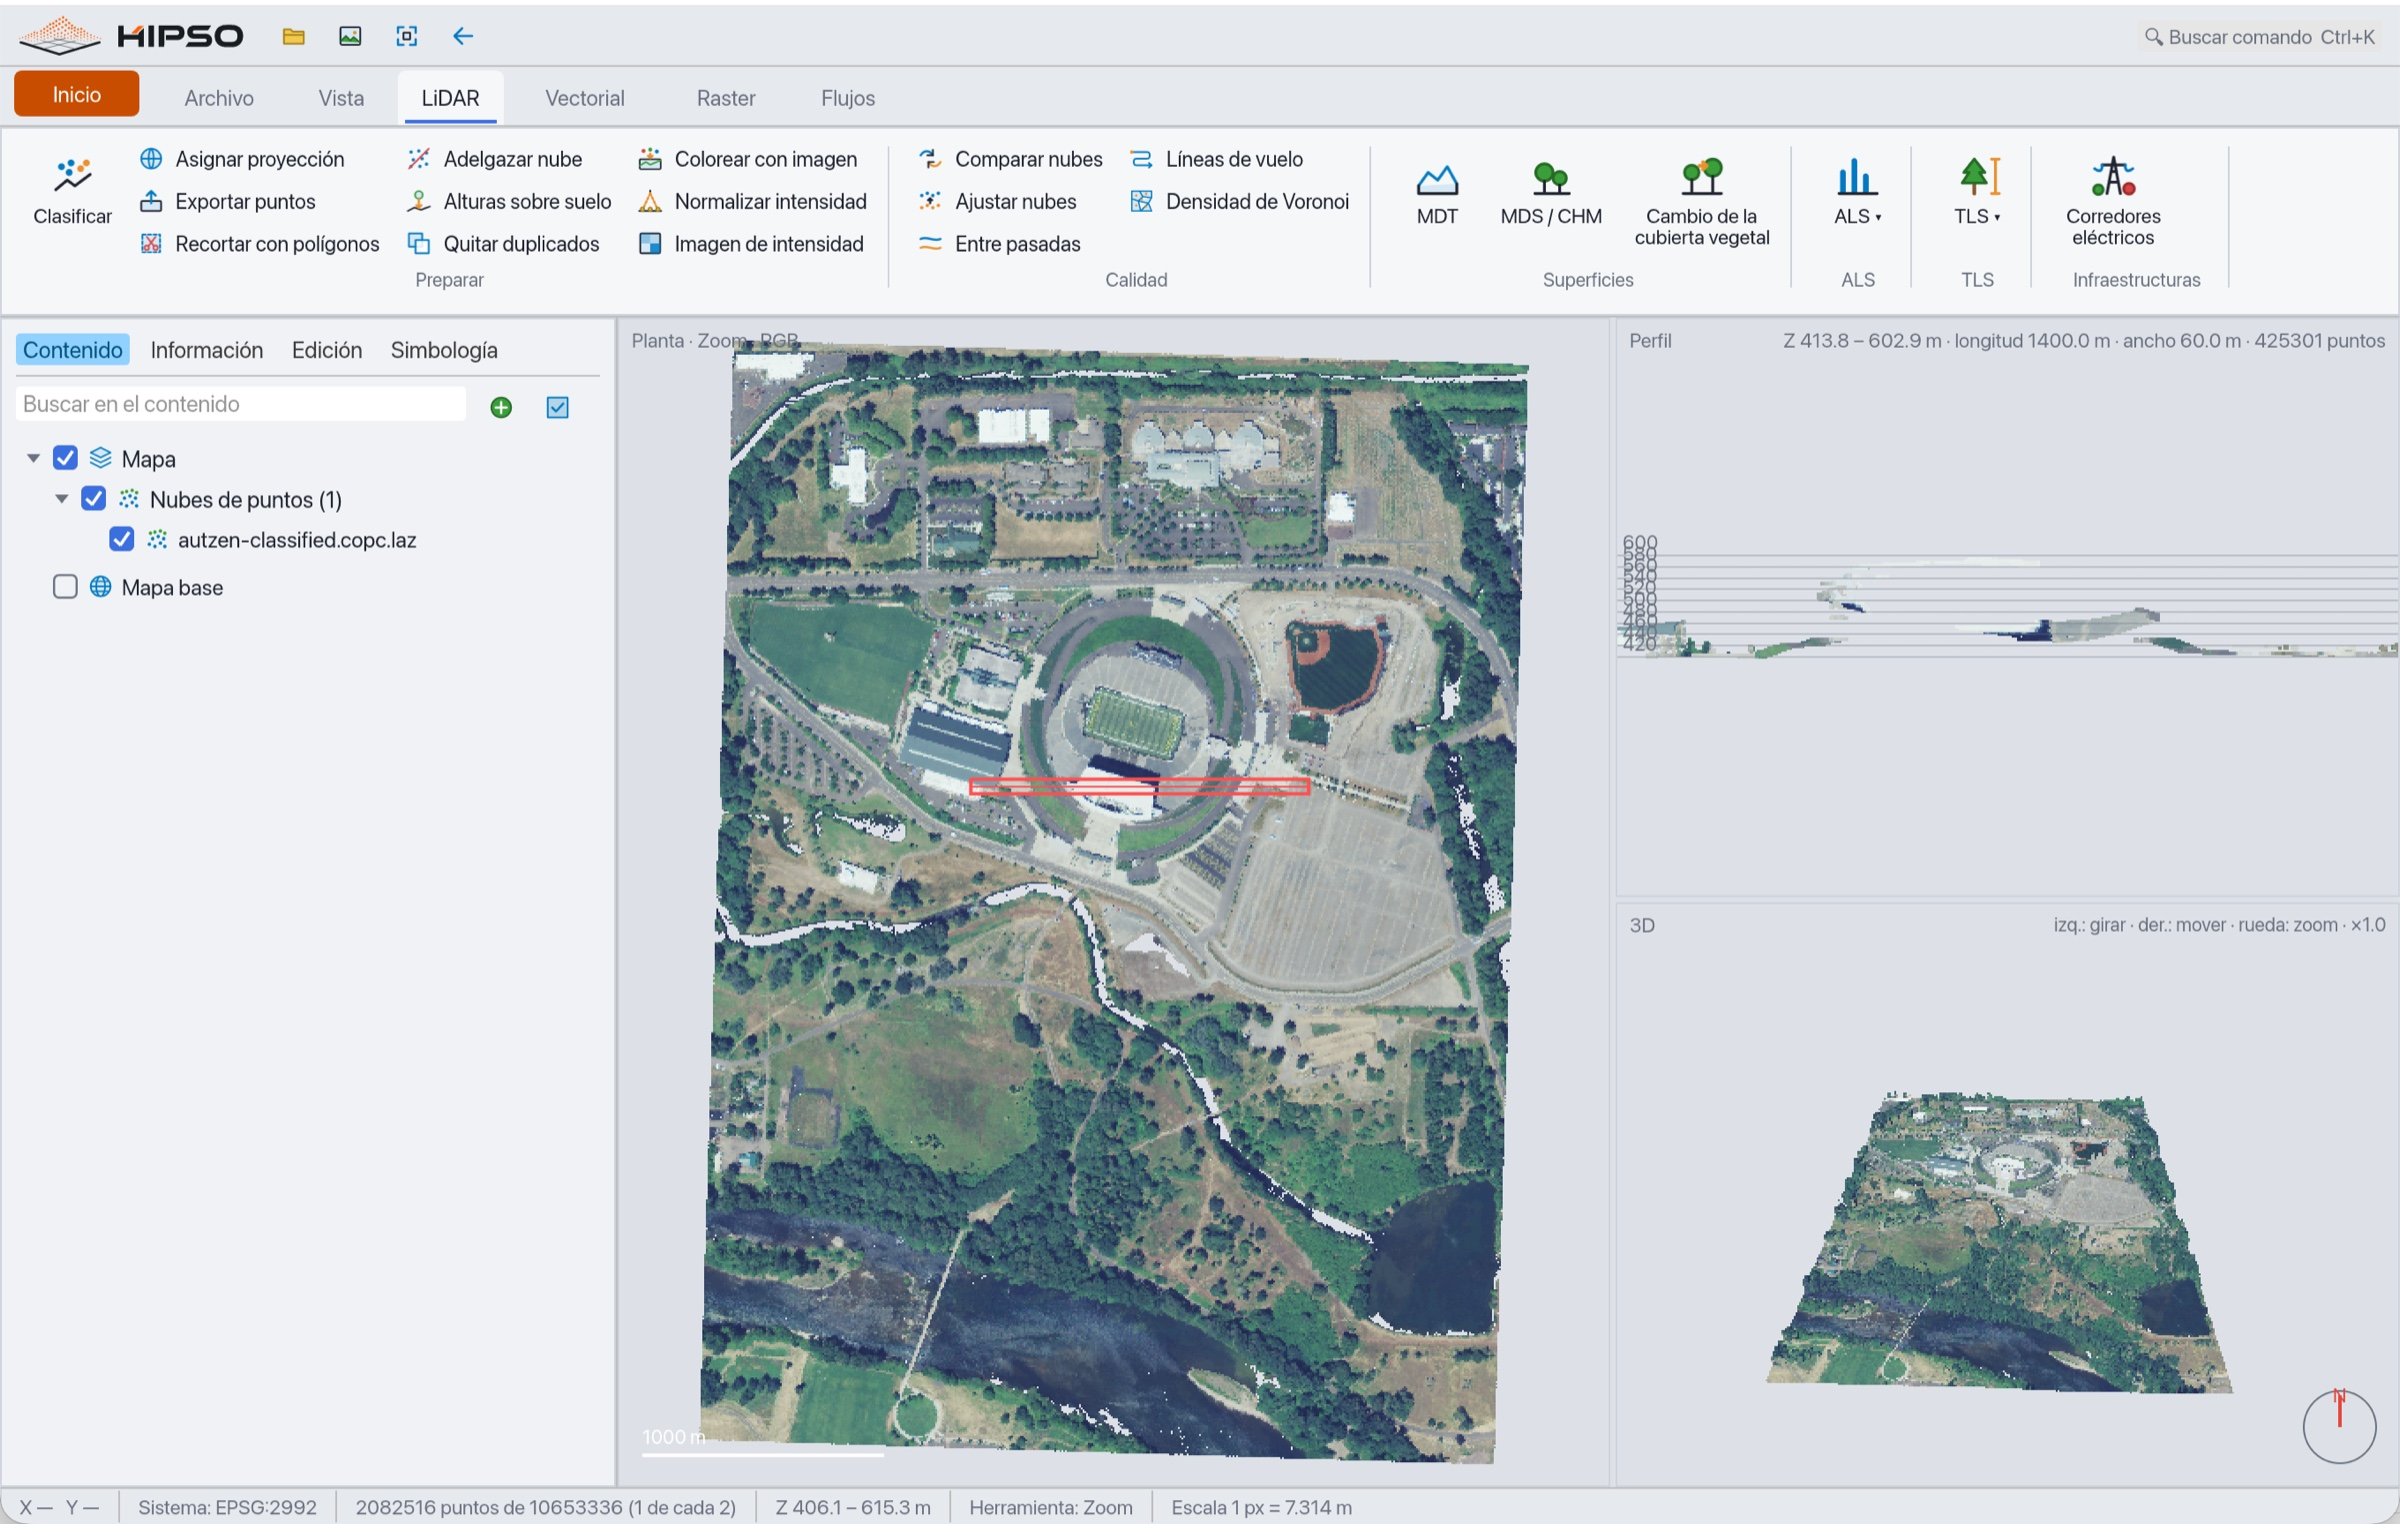
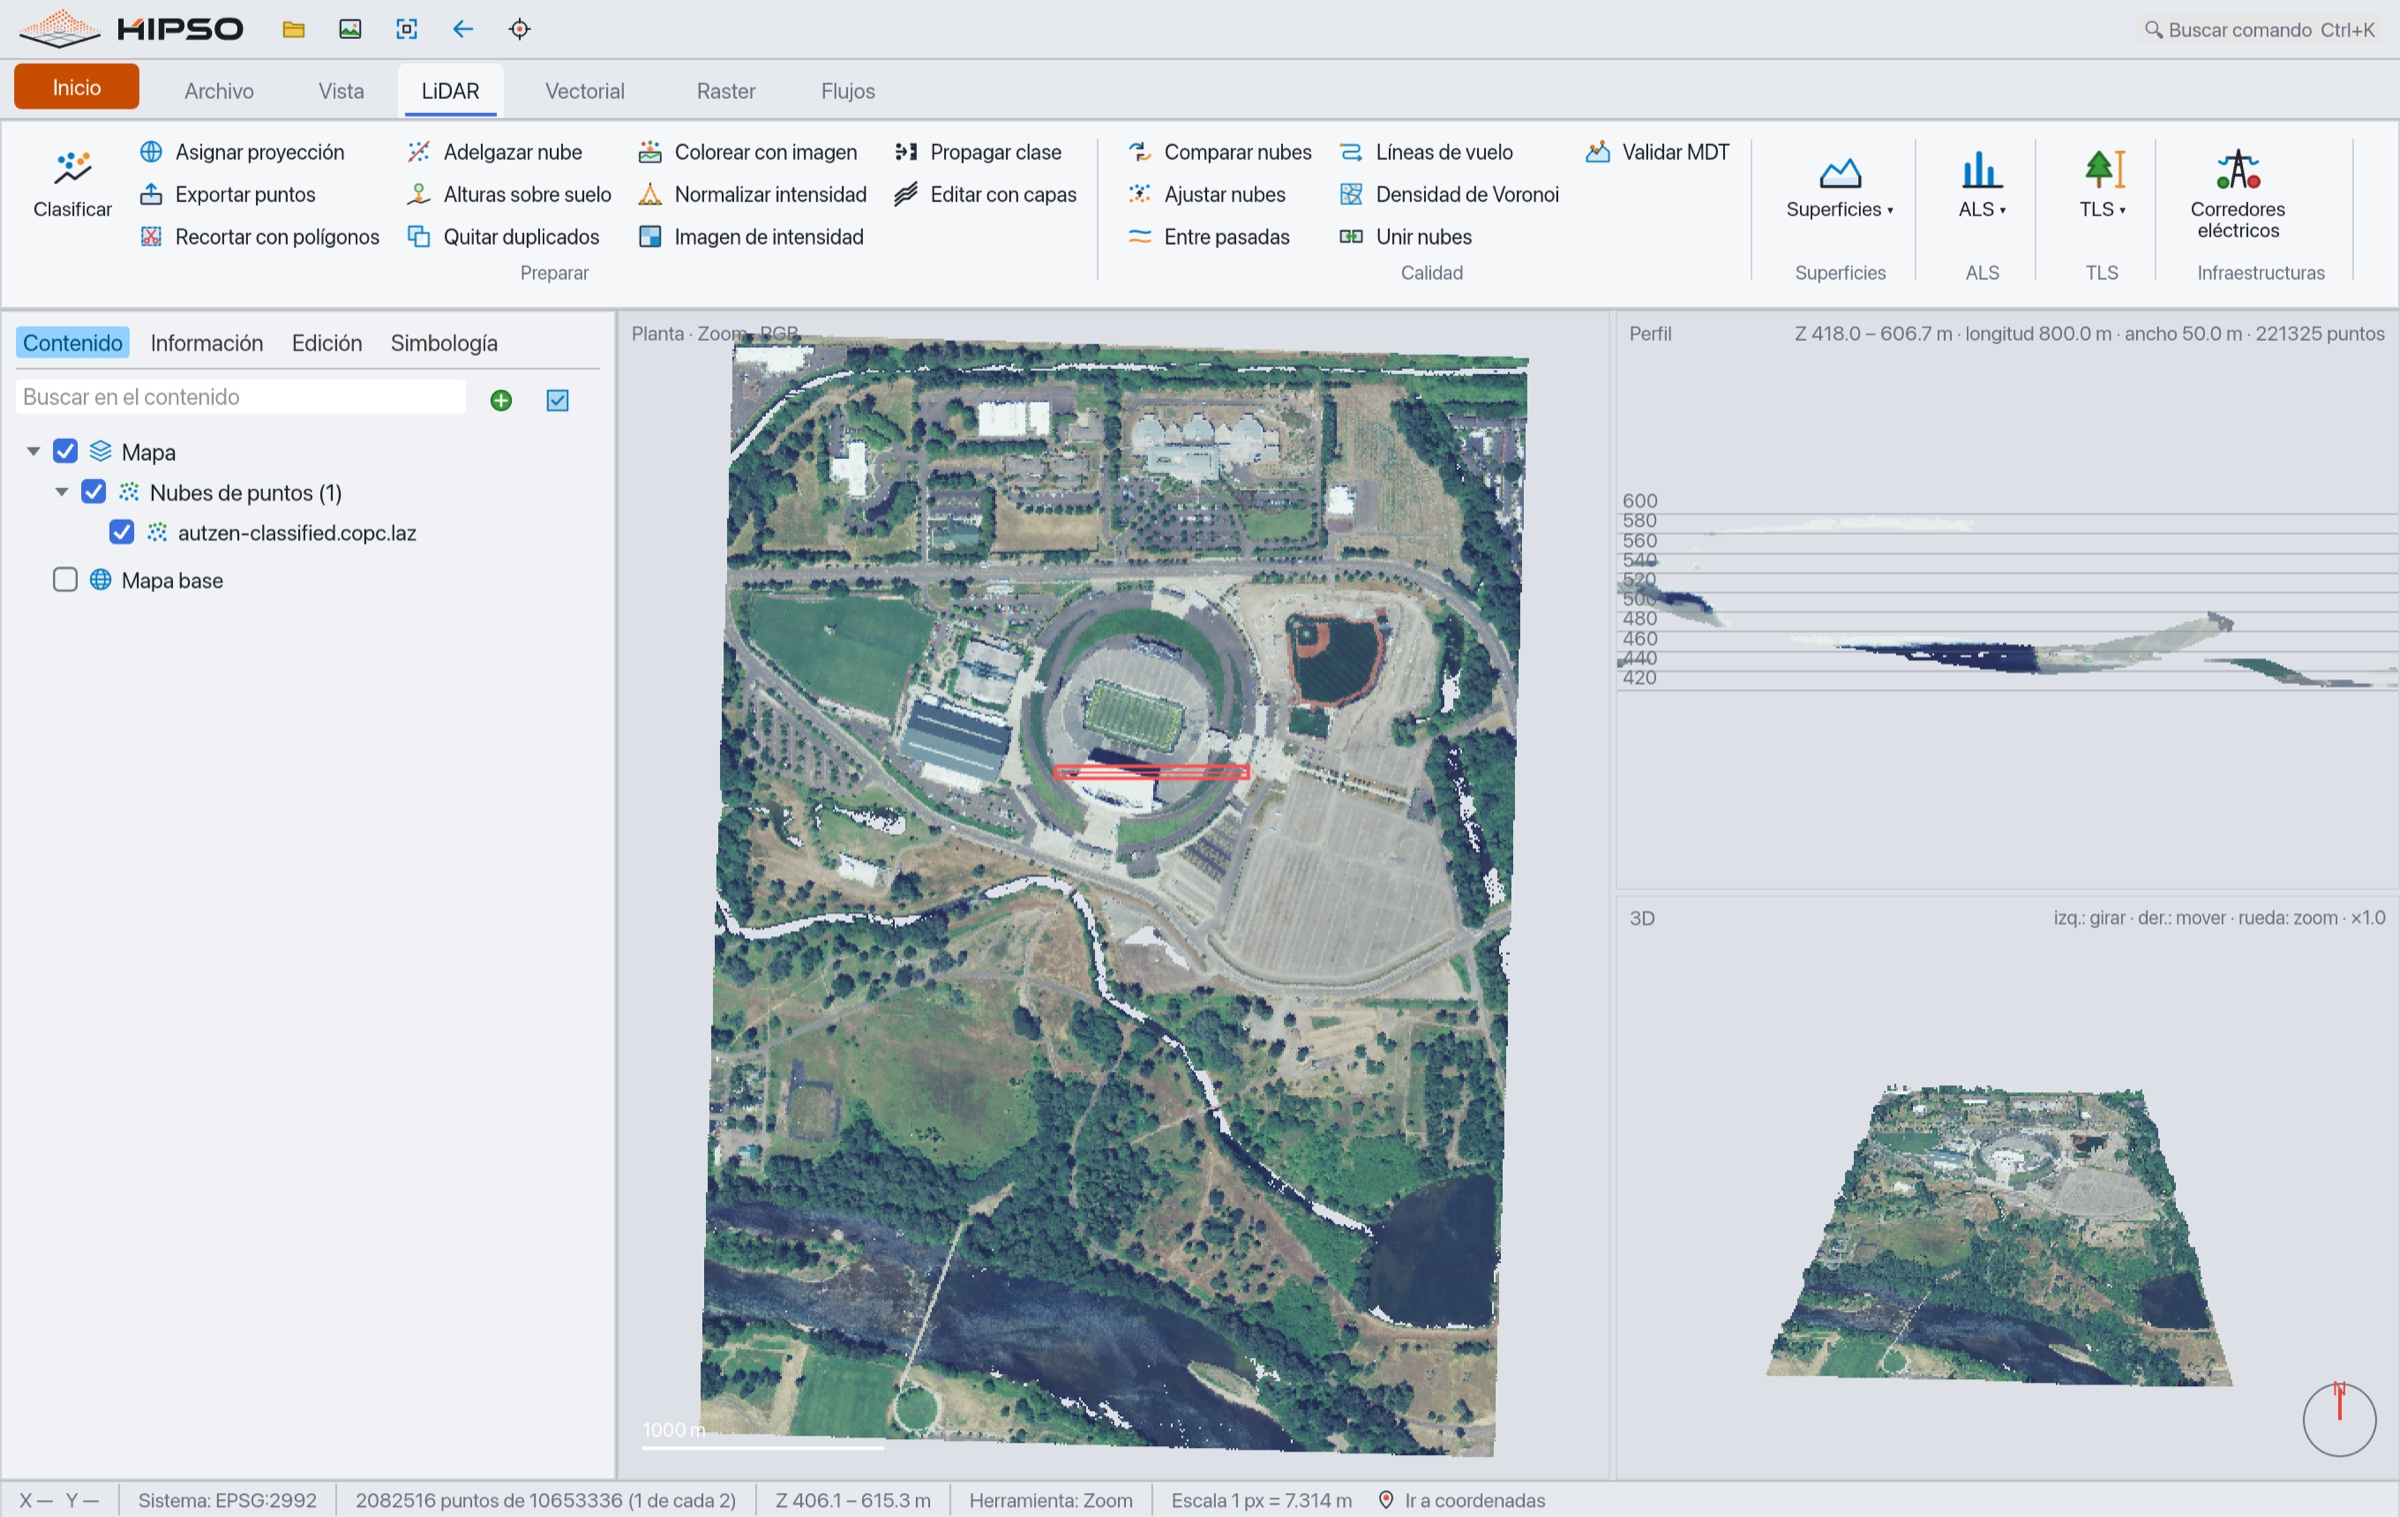
Capturas del README y de la web renovadas con la interfaz actual (perfil con MDS y MDT, línea eléctrica con apeos en 3D, TLS, flujos, modelos lineales) y una del asistente de IA; README con las novedades del asistente y del servidor MCP; el perfil no pisa su título en paneles estrechos; interruptore

diff --git a/apps/gui/src/main.rs b/apps/gui/src/main.rs
@@ -141,6 +141,9 @@ fn compass_centre(rect: Rect) -> Pos2 {
 
 /// Con `--expand`, todas las secciones plegables de las ventanas arrancan abiertas (para capturas y
 /// para contrastar las ventanas con el manual).
+/// Modo y rampa con que se abren los ráster al arrancar (`--raster-style relieve,1`); solo para las capturas.
+pub static RASTER_STYLE: std::sync::Mutex<Option<(rs::GridMode, usize)>> = std::sync::Mutex::new(None);
+
 pub static EXPAND_ALL: std::sync::atomic::AtomicBool = std::sync::atomic::AtomicBool::new(false);
 
 /// Una sección plegable, abierta desde el principio si se pidió `--expand`.
@@ -558,6 +561,7 @@ struct App {
     ai: ai::Assistant,
     /// Cuántas de las capas se dibujan bajo las nubes de puntos (las primeras de `refs`).
     cloud_slot: usize,
+    rasters_over: bool,
     show_points: bool,
     tin_on: bool,
     tin_classes: ClassSet,
@@ -743,6 +747,7 @@ impl Default for App {
             refs: Vec::new(),
             ai: ai::Assistant::new(),
             cloud_slot: 0,
+            rasters_over: false,
             show_points: true,
             tin_on: false,
             tin_classes: ClassSet::from_bits(1 << 2),
@@ -1065,6 +1070,8 @@ impl App {
                     }
                 }
                 "--hide-points" => self.show_points = false,
+                // la vista 3D sigue a la planta (la casilla «Enlazar con la planta»)
+                "--follow-plan" => self.follow_plan = true,
                 "--exag" => {
                     if let Some(v) = it.next().and_then(|v| v.parse().ok()) {
                         self.orbit.exaggeration = v;
@@ -1273,6 +1280,22 @@ impl App {
                 }
                 "--side-info" => self.side = Side::Info,
                 "--side-edit" => self.side = Side::Edit,
+                "--side-sym" => self.side = Side::Symbology,
+                // los ráster se dibujan sobre las nubes de puntos en la planta
+                "--rasters-over" => self.rasters_over = true,
+                "--raster-style" => {
+                    let v = it.next().unwrap_or_default();
+                    let mut p = v.split(',');
+                    let mode = match p.next() {
+                        Some("relieve") => rs::GridMode::Hillshade,
+                        Some("clasificar") => rs::GridMode::Classified,
+                        _ => rs::GridMode::Stretch,
+                    };
+                    let ramp = p.next().and_then(|r| r.parse().ok()).unwrap_or(5);
+                    if let Ok(mut g) = RASTER_STYLE.lock() {
+                        *g = Some((mode, ramp));
+                    }
+                }
                 _ => files.push(PathBuf::from(a)),
             }
         }
@@ -1951,7 +1974,13 @@ impl App {
         } else {
             g
         };
-        let style = rs::GridStyle::new(&shown);
+        let mut style = rs::GridStyle::new(&shown);
+        if let Ok(g) = RASTER_STYLE.lock()
+            && let Some((mode, ramp)) = *g
+        {
+            style.mode = mode;
+            style.ramp = ramp;
+        }
         let tex = to_texture(
             ctx,
             &format!("ref-{}", path.display()),
@@ -4335,6 +4364,9 @@ ui.menu_button("⚙", |ui| {
         let uv = Rect::from_min_max(Pos2::ZERO, Pos2::new(1.0, 1.0));
         self.update_images(ctx, w, h);
         // las capas bajo las nubes de puntos, luego las nubes y luego las capas encima
+        if self.rasters_over && self.loading.is_none() && !self.refs.is_empty() {
+            self.cloud_slot = 0;
+        }
         let slot = self.cloud_slot.min(self.refs.len());
         // el mapa base va bajo todo
         let project = if self.basemap.as_ref().is_some_and(|b| b.on) {
@@ -4860,28 +4892,36 @@ ui.menu_button("⚙", |ui| {
                     Rect::from_min_max(Pos2::ZERO, Pos2::new(1.0, 1.0)),
                     Color32::WHITE,
                 );
-                painter.text(
-                    rect.right_top() + Vec2::new(-8.0, 6.0),
-                    Align2::RIGHT_TOP,
-                    format!(
-                        "Z {lo:.1} – {hi:.1} m · longitud {:.1} m · ancho {:.1} m · {} puntos{}{} · Mayús+clic: corte perpendicular (Mayús+clic derecho: volver)",
-                        bx.length(),
-                        bx.width,
-                        store.len(),
-                        if store.stride > 1 {
-                            format!(" (1 de cada {})", store.stride)
-                        } else {
-                            String::new()
-                        },
-                        if self.profile_loading() {
-                            " · leyendo todos…"
-                        } else {
-                            ""
-                        }
-                    ),
-                    FontId::proportional(11.5),
-                    t.weak,
+                let datos = format!(
+                    "Z {lo:.1} – {hi:.1} m · longitud {:.1} m · ancho {:.1} m · {} puntos{}{}",
+                    bx.length(),
+                    bx.width,
+                    store.len(),
+                    if store.stride > 1 {
+                        format!(" (1 de cada {})", store.stride)
+                    } else {
+                        String::new()
+                    },
+                    if self.profile_loading() {
+                        " · leyendo todos…"
+                    } else {
+                        ""
+                    }
                 );
+                // la ayuda del corte perpendicular solo se añade si cabe sin pisar el título «Perfil»
+                let font = FontId::proportional(11.5);
+                let completo = format!("{datos} · Mayús+clic: corte perpendicular (Mayús+clic derecho: volver)");
+                let ancho = |texto: &str| {
+                    painter
+                        .layout_no_wrap(texto.to_owned(), font.clone(), t.weak)
+                        .size()
+                        .x
+                };
+                let hueco = rect.width() - 70.0;
+                let texto = if ancho(&completo) <= hueco { completo } else { datos };
+                if ancho(&texto) <= hueco {
+                    painter.text(rect.right_top() + Vec2::new(-8.0, 6.0), Align2::RIGHT_TOP, texto, font, t.weak);
+                }
             }
             if let Some((_, _, lo, hi)) = &self.tex_prof {
                 // la misma transformación que `render_profile`, de píxeles de la imagen al

diff --git a/scripts/capturas.py b/scripts/capturas.py
@@ -1,0 +1,46 @@
+#!/usr/bin/env python3
+"""Captura una escena de HIPSO con `--window-png` (la ventana entera, sin barra de título ni nada más
+de la pantalla), espera a que el archivo exista, cierra el programa y deja la imagen a 2400 px de ancho.
+
+Uso: python3 scripts/capturas.py <salida.png> [--espera SEG] -- <argumentos de hipso-gui>
+Necesita que la pantalla esté despierta (caffeinate -d -i).
+"""
+import os
+import subprocess
+import sys
+import time
+
+RAIZ = os.path.dirname(os.path.dirname(os.path.abspath(__file__)))
+GUI = os.path.join(RAIZ, "target/release/hipso-gui")
+
+
+def capturar(salida, args, espera=8, limite=900, ancho=2400):
+    crudo = salida + ".crudo.png"
+    if os.path.exists(crudo):
+        os.remove(crudo)
+    p = subprocess.Popen([GUI, *args, "--window-png", crudo, "--shot-wait", str(espera)],
+                         stdout=subprocess.DEVNULL, stderr=subprocess.DEVNULL)
+    t0 = time.time()
+    while time.time() - t0 < limite and not os.path.exists(crudo):
+        if p.poll() is not None:
+            break
+        time.sleep(0.5)
+    time.sleep(1.5)
+    p.kill()
+    p.wait()
+    if not os.path.exists(crudo):
+        raise SystemExit(f"no se capturó: {salida}")
+    subprocess.run(["sips", "--resampleWidth", str(ancho), crudo, "--out", salida], check=True, stdout=subprocess.DEVNULL)
+    os.remove(crudo)
+    return salida
+
+
+if __name__ == "__main__":
+    a = sys.argv[1:]
+    esp = 8
+    if "--espera" in a:
+        i = a.index("--espera")
+        esp = float(a[i + 1])
+        del a[i:i + 2]
+    i = a.index("--")
+    print(capturar(a[0], a[i + 1:], esp))

diff --git a/site/build.py b/site/build.py
@@ -115,6 +115,7 @@ IMAGENES = {
     "raster": ("05-terreno-opengf.jpg", "Un modelo del terreno coloreado por elevación, con su vista 3D."),
     "aba": ("11-modelos-lineales.jpg", "Modelo lineal de una variable de inventario con sus residuos."),
     "flujos": ("09-constructor-de-flujos.jpg", "El constructor de flujos con un inventario por área dibujado como grafo de nodos."),
+    "asistente": ("12-asistente-ia.jpg", "El panel del asistente de IA junto a una nube clasificada: explica las herramientas y crea flujos."),
     "tls": ("07-tls-troncos-y-ramas.jpg", "Troncos y ramas clasificados en una nube de escáner terrestre."),
 }
 

diff --git a/README.md b/README.md
@@ -11,7 +11,7 @@
 </p>
 
 <p align="center">
-  <a href="https://github.com/juliomsevilla/HIPSO/releases/latest"><img alt="Descargar" src="https://img.shields.io/badge/descargar-v0.8.1-ff8a1f?style=for-the-badge"></a>
+  <a href="https://github.com/juliomsevilla/HIPSO/releases/latest"><img alt="Descargar" src="https://img.shields.io/badge/descargar-v0.8.5-ff8a1f?style=for-the-badge"></a>
   <img alt="Plataformas" src="https://img.shields.io/badge/Windows%20%C2%B7%20macOS%20%C2%B7%20Linux-555?style=for-the-badge">
   <img alt="Gratuito" src="https://img.shields.io/badge/uso-gratuito-2e7d32?style=for-the-badge">
 </p>
@@ -27,6 +27,18 @@ En la página de **[Releases](https://github.com/juliomsevilla/HIPSO/releases/la
 - **Windows:** si aparece el aviso azul de SmartScreen, se elige *Más información → Ejecutar de todas formas*.
 - **macOS:** `HIPSO.app` se abre sin ventana de Terminal. El programa no está firmado por un desarrollador que Apple conozca, de modo que la primera vez macOS lo bloquea: se abre una vez, se va a *Ajustes del Sistema → Privacidad y seguridad* y se pulsa *Abrir igualmente*. Si el paquete se descarga con el navegador, macOS marca también `hipso` y `hipso-gui` y los cierra al ejecutarlos desde la consola; se desbloquean con `xattr -dr com.apple.quarantine HIPSO-macos-arm64` (o `-x64`) sobre la carpeta descomprimida, y si aun así no arrancan, con `chmod +x hipso-gui hipso`.
 - **Linux:** si el archivo perdió el permiso, se recupera con `chmod +x hipso-gui hipso`. Hacen falta GTK 3 para los diálogos de archivo y OpenGL 2 o superior (Mesa sirve).
+
+---
+
+## Novedades
+
+- **Asistente de IA** (*Archivo → Asistente*): un panel de conversación que conoce HIPSO. Explica cada herramienta consultando el manual y la referencia, describe y explora los datos abiertos (nubes, rásteres, capas y tablas), recomienda cómo hacer un trabajo y **crea flujos** validados contra las herramientas reales, que se abren en la pestaña *Flujos* para ejecutarlos. Funciona con DeepSeek, OpenRouter, Claude, ChatGPT o cualquier servicio compatible con OpenAI, con tu propia clave: HIPSO no pone intermediarios ni cobra. Trae ocho perfiles (GIS Analyst, GIS Editor, LiDAR Analyst, LiDAR Editor, Remote Sensing Analyst, Spatial Data Analyst, Data Analyst y Data Scientist) y uno propio, y guarda las conversaciones como archivos `.jsonl` en la carpeta que elijas. El asistente nunca ejecuta herramientas por su cuenta: arma el flujo y lo ejecutas tú.
+- **Servidor MCP** (`hipso mcp`): cualquier cliente del Protocolo de Contexto de Modelo (un asistente de código, un chat de escritorio…) descubre las órdenes de `hipso` como herramientas, con sus opciones, valores admitidos y valores por defecto tomados del propio programa, y las llama: clasificar una nube, hacer un MDT o medir los árboles de una hoja sin escribir la orden. No tiene credenciales ni abre ningún puerto. Se configura como una orden más: `{ "mcpServers": { "hipso": { "command": "hipso", "args": ["mcp"] } } }`.
+- **Herramientas nuevas:** *Validar MDT* (error del modelo del terreno frente a puntos de control), *Huecos del dosel*, *Métricas de vóxeles*, *Segmentar con puntos* (árboles 3D sin CHM) y *Métricas por árbol*, todas con su orden en la línea de comandos y su nodo en el constructor de flujos.
+
+<p align="center">
+  <img src="assets/social/12-asistente-ia.jpg" alt="El panel del asistente de IA junto a una nube clasificada" width="85%">
+</p>
 
 ---
 
